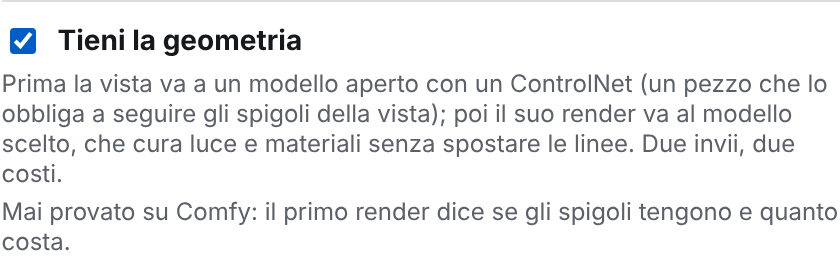
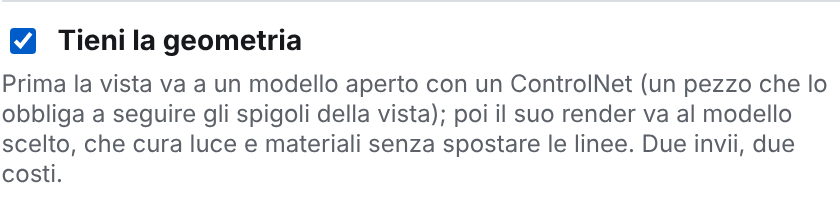
Tieni la geometria sul deployment della Developer Platform
Il workflow e' un JSON API puro da caricare sulla Developer Platform
(workflow/LEGGIMI.md); l'indirizzo *.run.comfy.app sta in
AIRENDER_COMFY_WORKFLOW_URL. Senza indirizzo lo Studio dice il comando da
dare. Tolti Comfy Cloud e l'abbonamento; il costo si scrive a secondi di GPU.
Nel conflitto con main tenute le schede dei modelli; Finale passa da
unInvioAllaVolta.

Claude-Session: https://claude.ai/code/session_01MkZvWKSjpZs1bgygndcm6B

Changed region(s): [[0.0, 0.4857, 1.0, 0.9143], [0.0, 0.0857, 0.9905, 0.4571]]

diff --git a/core/studio/pagine/studio.js b/core/studio/pagine/studio.js
@@ -1277,7 +1277,7 @@ function pannelloInvio() {
       h("p", { classe: "destinazione" }, "Prima passata: la vista va a ",
         g.destinazione ? h("b", {}, g.destinazione) : "—", "."),
       h("p", { classe: "destinazione" }, "Costo della prima passata: ", h("b", {}, g.costo)));
-    if (g.errore) blocco.append(avviso("errore", g.errore, "Correggi l'indirizzo, oppure togli la spunta «Tieni la geometria»."));
+    if (g.errore) blocco.append(avviso("errore", g.errore, `${g.cosa_fare} Oppure togli la spunta «Tieni la geometria».`));
   }
   if (d) {
     blocco.append(

diff --git a/tests/test_geometria.py b/tests/test_geometria.py
@@ -22,7 +22,7 @@ from core.provider import geometria as modulo_geometria
 from core.studio.servizio import RichiestaStudioNonValida, Studio
 from test_passi import NANO, VISTA, ProviderCheRende, _dest, cartella, chiamate  # noqa: F401
 
-BASE = "https://cloud.comfy.org"
+BASE = "https://airender-geometria.run.comfy.app"
 
 
 def _png(colore=(10, 200, 10)) -> bytes:
@@ -87,7 +87,7 @@ def _genera(studio, **altro):
 
 def test_il_workflow_e_in_formato_api_coi_valori_di_config_e_senza_la_nota():
     grafo = modulo_geometria.workflow("asset-9", "a house", 42)
-    assert "_nota" not in grafo and all("class_type" in n and "inputs" in n for n in grafo.values())
+    assert all("class_type" in n and "inputs" in n for n in grafo.values())
     assert grafo["1"]["inputs"]["image"] == {"__type": "core/ASSET", "info": {"id": "asset-9"}}
     assert grafo["6"]["inputs"]["text"] == "a house"
     assert grafo["8"]["inputs"]["strength"] == config.GEOMETRIA_FORZA
@@ -152,6 +152,19 @@ def test_un_link_su_un_altro_indirizzo_non_riceve_la_chiave():
     assert not any("ladro" in c[1] for c in finto.chiamate)
 
 
+def test_il_file_del_workflow_e_json_api_puro_da_caricare_sulla_developer_platform():
+    grezzo = json.loads(modulo_geometria.WORKFLOW.read_text(encoding="utf-8"))
+    assert all(k.isdigit() and "class_type" in v for k, v in grezzo.items())
+    assert None not in [x for n in grezzo.values() for x in n["inputs"].values()]
+
+
+def test_senza_indirizzo_del_deployment_si_dice_cosa_fare(monkeypatch):
+    monkeypatch.delenv(modulo_geometria.VARIABILE_URL, raising=False)
+    with pytest.raises(ErroreProvider, match="Manca l'indirizzo") as errore:
+        modulo_geometria.indirizzo()
+    assert "setx " + modulo_geometria.VARIABILE_URL in errore.value.cosa_fare
+
+
 def test_l_indirizzo_viene_dall_ambiente_solo_se_e_https(monkeypatch):
     monkeypatch.setenv(modulo_geometria.VARIABILE_URL, "https://studio-x.run.comfy.app/")
     assert modulo_geometria.destinazione().endswith("su studio-x.run.comfy.app")
@@ -163,17 +176,18 @@ def test_l_indirizzo_viene_dall_ambiente_solo_se_e_https(monkeypatch):
 # --- Studio e coda -------------------------------------------------------------
 
 
-def test_la_destinazione_mostra_anche_la_prima_passata_e_il_costo_non_misurato(cartella, chiamate, monkeypatch):
-    monkeypatch.delenv(modulo_geometria.VARIABILE_URL, raising=False)
+def test_la_destinazione_mostra_anche_la_prima_passata_e_come_si_paga(cartella, chiamate, monkeypatch):
+    monkeypatch.setenv(modulo_geometria.VARIABILE_URL, BASE)
     studio = _studio(cartella, chiamate)
     assert studio.destinazione(NANO)["geometria"] is None
     prima = studio.destinazione(NANO, geometria=True)["geometria"]
-    assert prima["destinazione"] == "Comfy, workflow Z-Image-Turbo + ControlNet sugli spigoli su cloud.comfy.org"
-    assert prima["costo"].startswith("non misurato") and prima["verificato"] is False
+    assert prima["destinazione"] == ("Comfy Developer Platform, workflow Z-Image-Turbo + ControlNet sugli spigoli "
+                                     "su airender-geometria.run.comfy.app")
+    assert prima["costo"] == "a secondi di GPU del deployment" and prima["errore"] is None
 
 
 def test_genera_con_la_spunta_manda_prima_il_workflow_poi_nano_banana_col_suo_render(cartella, chiamate, monkeypatch):
-    monkeypatch.delenv(modulo_geometria.VARIABILE_URL, raising=False)
+    monkeypatch.setenv(modulo_geometria.VARIABILE_URL, BASE)
     studio, finto = _studio(cartella, chiamate), ComfyFinto()
     identificativo = _genera(studio)
     scritto = json.loads((cartella / "lavori" / "in-attesa" / f"{identificativo}.json").read_text("utf-8"))
@@ -193,6 +207,17 @@ def test_genera_con_la_spunta_manda_prima_il_workflow_poi_nano_banana_col_suo_re
     assert (cartella / "lavori" / "fatto" / f"{identificativo}.geometria.png").exists()
 
 
+def test_senza_indirizzo_genera_si_ferma_col_gesto_da_fare(cartella, chiamate, monkeypatch):
+    monkeypatch.delenv(modulo_geometria.VARIABILE_URL, raising=False)
+    studio = _studio(cartella, chiamate)
+    prima = studio.destinazione(NANO, geometria=True)["geometria"]
+    assert prima["destinazione"] is None and "setx" in prima["cosa_fare"]
+    with pytest.raises(RichiestaStudioNonValida, match="Manca l'indirizzo"):
+        studio.invia({"vista": VISTA, "scelte": blocchi.da_preset("rivista").a_dizionario(), "modello": NANO,
+                      "destinazione_mostrata": _dest(studio), "geometria": True})
+    assert not list(cartella.glob("lavori/in-attesa/*.json"))
+
+
 def test_la_composizione_mostra_la_regola_della_bozza(cartella, chiamate):
     studio = _studio(cartella, chiamate)
     composto = studio.componi({"vista": VISTA, "scelte": blocchi.da_preset("rivista").a_dizionario(), "geometria": True})
@@ -200,7 +225,7 @@ def test_la_composizione_mostra_la_regola_della_bozza(cartella, chiamate):
 
 
 def test_se_la_prima_passata_cambia_indirizzo_dopo_il_clic_non_parte_niente(cartella, chiamate, monkeypatch):
-    monkeypatch.delenv(modulo_geometria.VARIABILE_URL, raising=False)
+    monkeypatch.setenv(modulo_geometria.VARIABILE_URL, BASE)
     studio, finto = _studio(cartella, chiamate), ComfyFinto()
     identificativo = _genera(studio)
     coda = modulo_coda.Coda(cartella, crea_provider=lambda _n: ProviderCheRende(chiamate), dire=lambda _t: None,
@@ -211,7 +236,8 @@ def test_se_la_prima_passata_cambia_indirizzo_dopo_il_clic_non_parte_niente(cart
     assert not finto.chiamate and not chiamate
 
 
-def test_la_destinazione_della_prima_passata_va_mostrata(cartella, chiamate):
+def test_la_destinazione_della_prima_passata_va_mostrata(cartella, chiamate, monkeypatch):
+    monkeypatch.setenv(modulo_geometria.VARIABILE_URL, BASE)
     studio = _studio(cartella, chiamate)
     with pytest.raises(RichiestaStudioNonValida, match="prima passata"):
         _genera(studio, destinazione_geometria_mostrata="un altro posto")
@@ -227,7 +253,7 @@ def test_da_un_passo_la_spunta_si_rifiuta(cartella, chiamate):
 
 
 def test_un_file_del_formato_10_senza_destinazione_o_da_un_passo_si_rifiuta(cartella, chiamate, monkeypatch):
-    monkeypatch.delenv(modulo_geometria.VARIABILE_URL, raising=False)
+    monkeypatch.setenv(modulo_geometria.VARIABILE_URL, BASE)
     identificativo = _genera(_studio(cartella, chiamate))
     scritto = json.loads((cartella / "lavori" / "in-attesa" / f"{identificativo}.json").read_text("utf-8"))
     for guasto in ({"destinazione_geometria": ""}, {"formato_base": modulo_coda.FORMATO_FINALE},

diff --git a/core/provider/geometria.py b/core/provider/geometria.py
@@ -1,19 +1,17 @@
 """«Tieni la geometria»: la prima passata con un ControlNet, prima di Nano Banana.
 
 Un ControlNet e' un pezzo aggiunto a un modello aperto che lo obbliga a
-seguire una guida, qui gli spigoli della vista (Canny). Nano Banana non ne ha:
-segue la vista bene ma non sempre, soprattutto nei passi. Con «Tieni la
-geometria» la vista va prima a un workflow su Comfy Cloud (Z-Image-Turbo con
-il ControlNet Fun Union, `workflow/tieni-geometria.json`), e il suo render
-parte poi verso Nano Banana come prima immagine, con la regola di non
+seguire una guida, qui gli spigoli della vista (Canny). La vista va prima al
+workflow `workflow/tieni-geometria.json` (Z-Image-Turbo con il ControlNet Fun
+Union), pubblicato da Riccardo sulla Comfy Developer Platform come endpoint
+serverless `https://<nome>.run.comfy.app` (`workflow/LEGGIMI.md`). Il suo
+render parte poi verso Nano Banana come prima immagine, con la regola di non
 spostare nessuno spigolo.
 
-Non e' il Router: e' l'API v2 dei workflow di Comfy (carica l'immagine come
-asset, manda il grafo, aspetta il lavoro, scarica l'uscita). La chiave e'
-la stessa del Router (COMFY_API_KEY). L'indirizzo e' Comfy Cloud, che vuole
-un abbonamento Cloud; con `AIRENDER_COMFY_WORKFLOW_URL` si puo' puntare a un
-deployment della Developer Platform (https://<nome>.run.comfy.app).
-NON VERIFICATO al 2026-11-04: nessun workflow e' mai partito da qui.
+Non e' il Router: e' l'API v2 dei workflow (carica la vista come asset, manda
+il grafo, aspetta il lavoro, scarica l'uscita). La chiave e' la stessa del
+Router (COMFY_API_KEY); l'indirizzo del deployment sta in
+AIRENDER_COMFY_WORKFLOW_URL.
 """
 
 from __future__ import annotations
@@ -32,7 +30,6 @@ from ..errori import ErroreProvider
 from . import comfy
 
 VARIABILE_URL = "AIRENDER_COMFY_WORKFLOW_URL"
-URL_PREDEFINITO = "https://cloud.comfy.org"
 WORKFLOW = Path(__file__).resolve().parent / "workflow" / "tieni-geometria.json"
 NOME_WORKFLOW = "Z-Image-Turbo + ControlNet sugli spigoli"
 REGOLA_PROMPT = (
@@ -57,30 +54,31 @@ class TrasportoWorkflow(Protocol):
 
 
 def indirizzo() -> str:
-    """La base dell'API: Comfy Cloud, o il deployment scritto nell'ambiente."""
+    """La base dell'API: il deployment della Developer Platform scritto nell'ambiente."""
     scritto = os.environ.get(VARIABILE_URL, "").strip().rstrip("/")
     if not scritto:
-        return URL_PREDEFINITO
+        raise ErroreProvider(
+            "Manca l'indirizzo del workflow «Tieni la geometria».",
+            f"Pubblica core/provider/workflow/tieni-geometria.json sulla Developer Platform, poi "
+            f"scrivi l'indirizzo con: setx {VARIABILE_URL} https://<nome>.run.comfy.app e riapri lo Studio.",
+        )
     parti = urlparse(scritto)
     if parti.scheme != "https" or not parti.hostname:
         raise ErroreProvider(
             f"{VARIABILE_URL} vale {scritto!r}, che non e' un indirizzo https.",
-            "Scrivi l'indirizzo del deployment come https://<nome>.run.comfy.app, "
-            "o togli la variabile per usare Comfy Cloud.",
+            "Scrivi l'indirizzo del deployment come https://<nome>.run.comfy.app.",
         )
     return f"https://{parti.hostname}"
 
 
 def destinazione() -> str:
     """Il servizio che riceve la vista nella prima passata: si mostra prima dell'invio (regola 5)."""
-    return f"Comfy, workflow {NOME_WORKFLOW} su {urlparse(indirizzo()).hostname}"
+    return f"Comfy Developer Platform, workflow {NOME_WORKFLOW} su {urlparse(indirizzo()).hostname}"
 
 
 def workflow(asset: str, prompt: str, seme: int) -> dict:
     """Il grafo in formato API, coi valori del lavoro. La nota del file non parte."""
-    grafo = {k: v for k, v in json.loads(WORKFLOW.read_text(encoding="utf-8")).items()
-             if not k.startswith("_")}
-    grafo = copy.deepcopy(grafo)
+    grafo = copy.deepcopy(json.loads(WORKFLOW.read_text(encoding="utf-8")))
     grafo[NODO_IMMAGINE]["inputs"]["image"] = {"__type": "core/ASSET", "info": {"id": asset}}
     grafo[NODO_LATO]["inputs"]["largest_size"] = config.GEOMETRIA_LATO_MASSIMO
     grafo[NODO_PROMPT]["inputs"]["text"] = prompt
@@ -114,7 +112,7 @@ class Geometria:
         self.dormi, self.adesso, self.controlla = dormi, adesso, controlla
 
     def destinazione(self) -> str:
-        return f"Comfy, workflow {NOME_WORKFLOW} su {urlparse(self.base).hostname}"
+        return f"Comfy Developer Platform, workflow {NOME_WORKFLOW} su {urlparse(self.base).hostname}"
 
     def _intestazioni(self) -> dict:
         if not self.chiave:
@@ -128,14 +126,11 @@ class Geometria:
     def _errore(self, cosa: str, stato: int, corpo: object) -> ErroreProvider:
         dettaglio = corpo.get("message") or corpo.get("error") if isinstance(corpo, dict) else corpo
         aggiunta = ""
-        if stato in (401, 402, 403):  # numero-non-configurabile: codici HTTP di chiave e abbonamento
-            aggiunta = (" Comfy Cloud vuole un abbonamento Cloud per i workflow; con i soli crediti del "
-                        "Router serve un deployment della Developer Platform "
-                        f"({VARIABILE_URL}).")
+        if stato in (401, 403):  # numero-non-configurabile: codici HTTP di una chiave rifiutata
+            aggiunta = f" Il deployment ha rifiutato la chiave: controlla {comfy.VARIABILI_CHIAVE[0]}."
         return ErroreProvider(
             f"«Tieni la geometria»: {cosa} non e' riuscito (HTTP {stato}): {str(dettaglio)[:300]}.",  # numero-non-configurabile: taglio del messaggio d'errore a schermo
-            "Togli la spunta «Tieni la geometria» per mandare solo a Nano Banana, o controlla "
-            f"la chiave e l'abbonamento.{aggiunta}",
+            f"Togli la spunta «Tieni la geometria» per mandare solo a Nano Banana.{aggiunta}",
         )
 
     def carica(self, immagine: bytes) -> str:
@@ -169,7 +164,7 @@ class Geometria:
                 raise ErroreProvider(
                     f"«Tieni la geometria»: il workflow non ha finito in {config.GEOMETRIA_ATTESA_SECONDI} "
                     "secondi e l'ho fermato.",
-                    "Riprova: la prima volta Comfy carica i modelli. Se succede ancora, togli la spunta.",
+                    "Riprova: a freddo il deployment carica i modelli prima di partire. Se succede ancora, togli la spunta.",
                 )
             self.dormi(config.GEOMETRIA_INTERVALLO_SECONDI)
             self.controlla()

diff --git a/core/studio/servizio.py b/core/studio/servizio.py
@@ -678,7 +678,7 @@ class Studio:
                              "cosa_fare": "Scegli Nano Banana 2, oppure togli i Rif."})
         if destinazione["geometria"] and destinazione["geometria"]["errore"]:
             problemi.append({"fatto": destinazione["geometria"]["errore"],
-                             "cosa_fare": "Correggi l'indirizzo, oppure togli la spunta «Tieni la geometria»."})
+                             "cosa_fare": destinazione["geometria"]["cosa_fare"]})
         if not self._coda_attiva():
             problemi.append(_CODA_FERMA)
         return {
@@ -839,7 +839,7 @@ class Studio:
         if prima_passata:
             if prima_passata["errore"]:
                 raise RichiestaStudioNonValida(f"Non mando: {prima_passata['errore']}",
-                                               "Correggi l'indirizzo, oppure togli la spunta «Tieni la geometria».")
+                                               f"{prima_passata['cosa_fare']} Oppure togli la spunta «Tieni la geometria».")
             if geometria_mostrata != prima_passata["destinazione"]:
                 raise RichiestaStudioNonValida(
                     f"La pagina ha mostrato come prima passata {geometria_mostrata!r}, ma la vista "
@@ -2105,19 +2105,19 @@ def _prompt_genera(a_mano: str | None, scelte, contesto, stile: int, esempi: int
 def _geometria_dict(varianti: int) -> dict:
     """La prima passata di «Tieni la geometria»: dove va e cosa costa, prima del clic (regola 5)."""
     try:
-        dove, errore = modulo_geometria.destinazione(), None
+        dove, errore, cosa_fare = modulo_geometria.destinazione(), None, None
     except ErroreAirender as problema:
-        dove, errore = None, problema.fatto
+        dove, errore, cosa_fare = None, problema.fatto, problema.cosa_fare
     return {
         "destinazione": dove,
         "errore": errore,
+        "cosa_fare": cosa_fare,
         "workflow": modulo_geometria.NOME_WORKFLOW,
         "cosa_parte": ("Prima la vista va da sola al workflow col ControlNet sugli spigoli; "
                        "poi il suo render parte verso il modello al posto della vista."),
-        # Regola 3: il costo di un workflow va a secondi di GPU e non e' mai stato misurato.
-        "costo": ("non misurato: Comfy conta i secondi di GPU" if varianti == 1
-                  else f"non misurato: {varianti} prime passate, Comfy conta i secondi di GPU"),
-        "verificato": False,
+        # Regola 3: un workflow si paga a secondi di GPU del deployment, non a immagine: nessun numero.
+        "costo": ("a secondi di GPU del deployment" if varianti == 1
+                  else f"{varianti} prime passate, a secondi di GPU del deployment"),
     }
 
 

diff --git a/PRD.md b/PRD.md
@@ -270,22 +270,15 @@ la verifica si nomina qui.
 
 ### Tieni la geometria, il ControlNet prima di Nano Banana (2026-11-04)
 
-- **Nessun workflow è mai partito**: l'API v2 dei workflow di Comfy (asset,
-  jobs, uscite) e il grafo `core/provider/workflow/tieni-geometria.json` sono
-  ricostruiti dalla documentazione (openapi-v2 di Comfy-Org/docs) e dal modello
-  comfy.org `image_z_image_turbo_fun_union_controlnet`, provati solo con un
-  finto. Verifica: una vista vera con la spunta, poi i due render affiancati.
-- **Chi può farlo partire**: Comfy Cloud vuole un abbonamento Cloud per i
-  workflow; i crediti del Router potrebbero non bastare. Con
-  `AIRENDER_COMFY_WORKFLOW_URL` si punta a un deployment della Developer
-  Platform (secondi di GPU, partenza a freddo). Nessuno dei due è stato provato.
-- **Il costo**: secondi di GPU, mai misurato; lo Studio scrive «non misurato».
-- **Che gli spigoli tengano davvero dopo Nano Banana**: la regola
-  `REGOLA_PROMPT` dice al modello di non spostarli, ma Nano Banana può ancora
-  muoverli. La misura di tenuta confronta il render finale con la vista.
-- **I valori** `GEOMETRIA_FORZA` 0,8, `GEOMETRIA_PASSI` 8,
-  `GEOMETRIA_LATO_MASSIMO` 1536 e le soglie di Canny (0,1 / 0,32 del modello
-  comfy.org) sono scelti, non confrontati su viste Allplan.
+- Il workflow gira sul deployment della **Comfy Developer Platform** di
+  Riccardo (`core/provider/workflow/tieni-geometria.json`, passi in
+  `workflow/LEGGIMI.md`), indirizzo in `AIRENDER_COMFY_WORKFLOW_URL`. Si chiude
+  con il primo render vero sul deployment: bozza `<id>.geometria.png` e render
+  affiancati alla vista.
+- Il costo è a secondi di GPU del deployment: lo Studio non scrive un numero
+  finché una prima passata vera non lo dà.
+- `GEOMETRIA_FORZA` 0,8, `GEOMETRIA_PASSI` 8, `GEOMETRIA_LATO_MASSIMO` 1536 e
+  le soglie di Canny (0,1 / 0,32) sono scelti, da tarare sulle prime viste.
 
 ### Stile da esempi (2026-11-04)
 

diff --git a/DESIGN.md b/DESIGN.md
@@ -901,16 +901,17 @@ messo in fila a Nano Banana». In Genera, dopo il riferimento per lo stile e
 prima dei Rif.: la spunta **Tieni la geometria**, con la frase che spiega il
 ControlNet nella stessa riga («un pezzo che obbliga un modello aperto a seguire
 gli spigoli della vista») e «Due invii, due costi». Nel riquadro Invio, sopra la destinazione di sempre: «Prima passata: la vista
-va a **Comfy, workflow Z-Image-Turbo + ControlNet sugli spigoli su
-cloud.comfy.org**», «Costo della prima passata: **non misurato**», poi «Poi il
+va a **Comfy Developer Platform, workflow Z-Image-Turbo + ControlNet sugli
+spigoli su <nome>.run.comfy.app**», «Costo della prima passata: **a secondi di
+GPU del deployment**», poi «Poi il
 suo render va a …» e il conteggio delle immagini con «il render della prima
 passata» al posto della vista. Non c'è nel Fotoinserimento, in Cambia e in
 Ritocca: il ControlNet ridisegna tutto dagli spigoli e da un passo perderebbe
 quello che il passo aveva fatto (in Ritocca fuori dalle aree il render resta
 già com'era).
 - **Vuoto:** la spunta tolta, nessuna riga in più.
-- **In corso:** come Genera. **Errore:** un indirizzo del deployment sbagliato
-  spegne Genera col motivo; un workflow fallito si legge come ogni errore, con
+- **In corso:** come Genera. **Errore:** senza l'indirizzo del deployment, o con
+  uno sbagliato, Genera si spegne e dice il comando `setx` da dare; un workflow fallito si legge come ogni errore, con
   «Togli la spunta per mandare solo a Nano Banana».
 - **Pieno:** `docs/ui/studio-rif/76-tieni-la-geometria.png`,
   `77-invio-due-destinazioni.png`. La bozza della prima passata resta accanto al

diff --git a/core/provider/workflow/LEGGIMI.md b/core/provider/workflow/LEGGIMI.md
@@ -1,0 +1,18 @@
+# Workflow di AIRENDER per la Comfy Developer Platform
+
+`tieni-geometria.json` è il workflow di «Tieni la geometria» in formato API
+(Z-Image-Turbo con il ControlNet Fun Union sugli spigoli, dal modello comfy.org
+`image_z_image_turbo_fun_union_controlnet`). È il file da caricare così com'è
+sulla Developer Platform:
+
+1. Developer Platform → nuovo workflow → carica `tieni-geometria.json`.
+2. Build: la piattaforma fissa ComfyUI e i modelli che il file nomina
+   (z_image_turbo_bf16, qwen_3_4b, ae, Z-Image-Turbo-Fun-Controlnet-Union).
+3. Endpoint Serverless: scegli GPU e worker, copia l'indirizzo
+   `https://<nome>.run.comfy.app`.
+4. Sul PC: `setx AIRENDER_COMFY_WORKFLOW_URL https://<nome>.run.comfy.app`,
+   poi riapri lo Studio. La chiave resta `COMFY_API_KEY`.
+
+Il motore riempie a ogni invio i nodi 1 (la vista caricata come asset), 2 (lato
+massimo), 6 (prompt), 8 (forza del ControlNet) e 9 (seme e passi), coi valori
+di `core/config.py`. I valori scritti nel file servono solo alla build.
